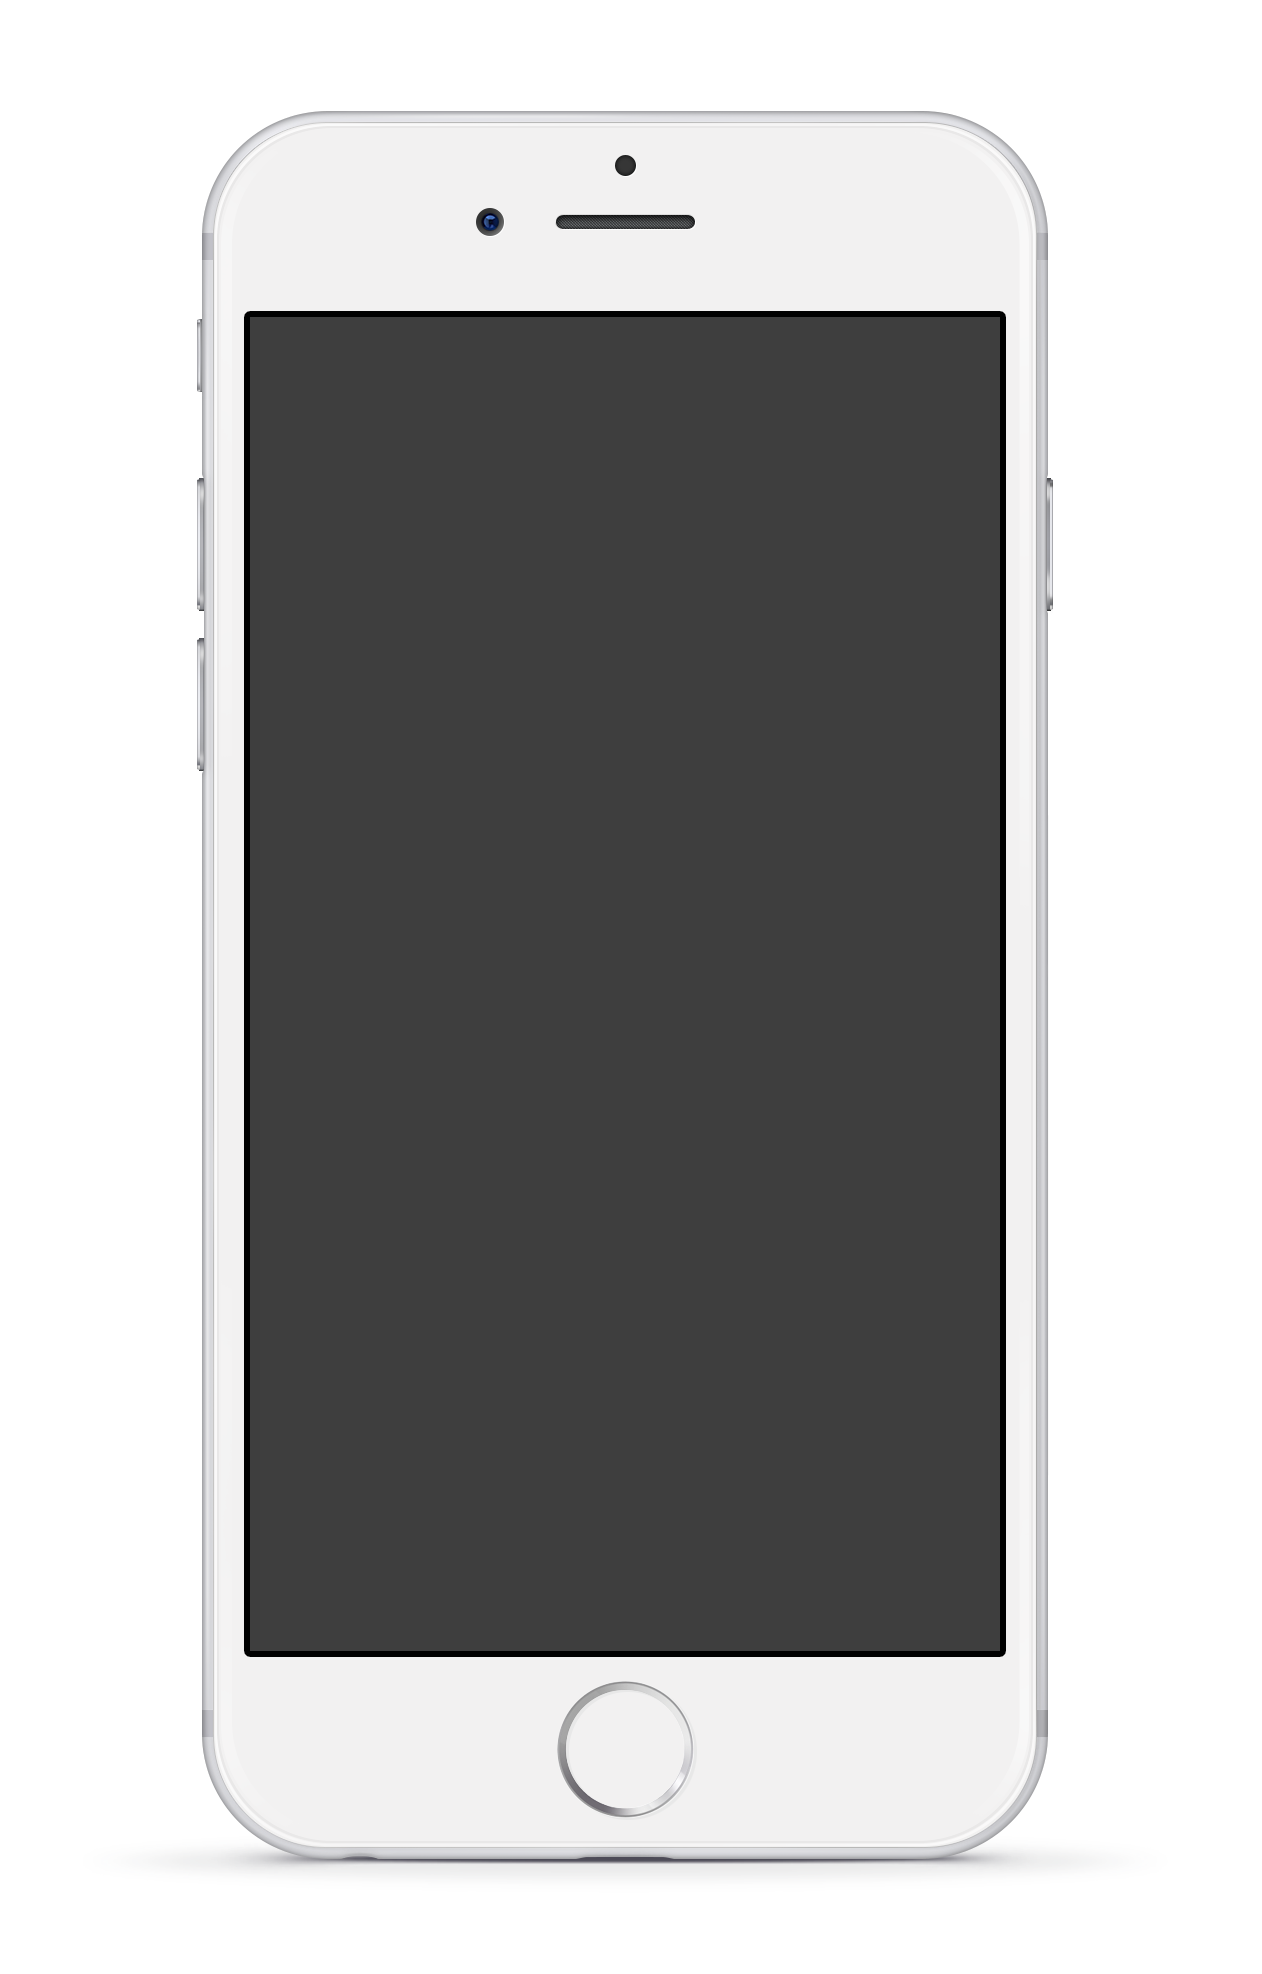
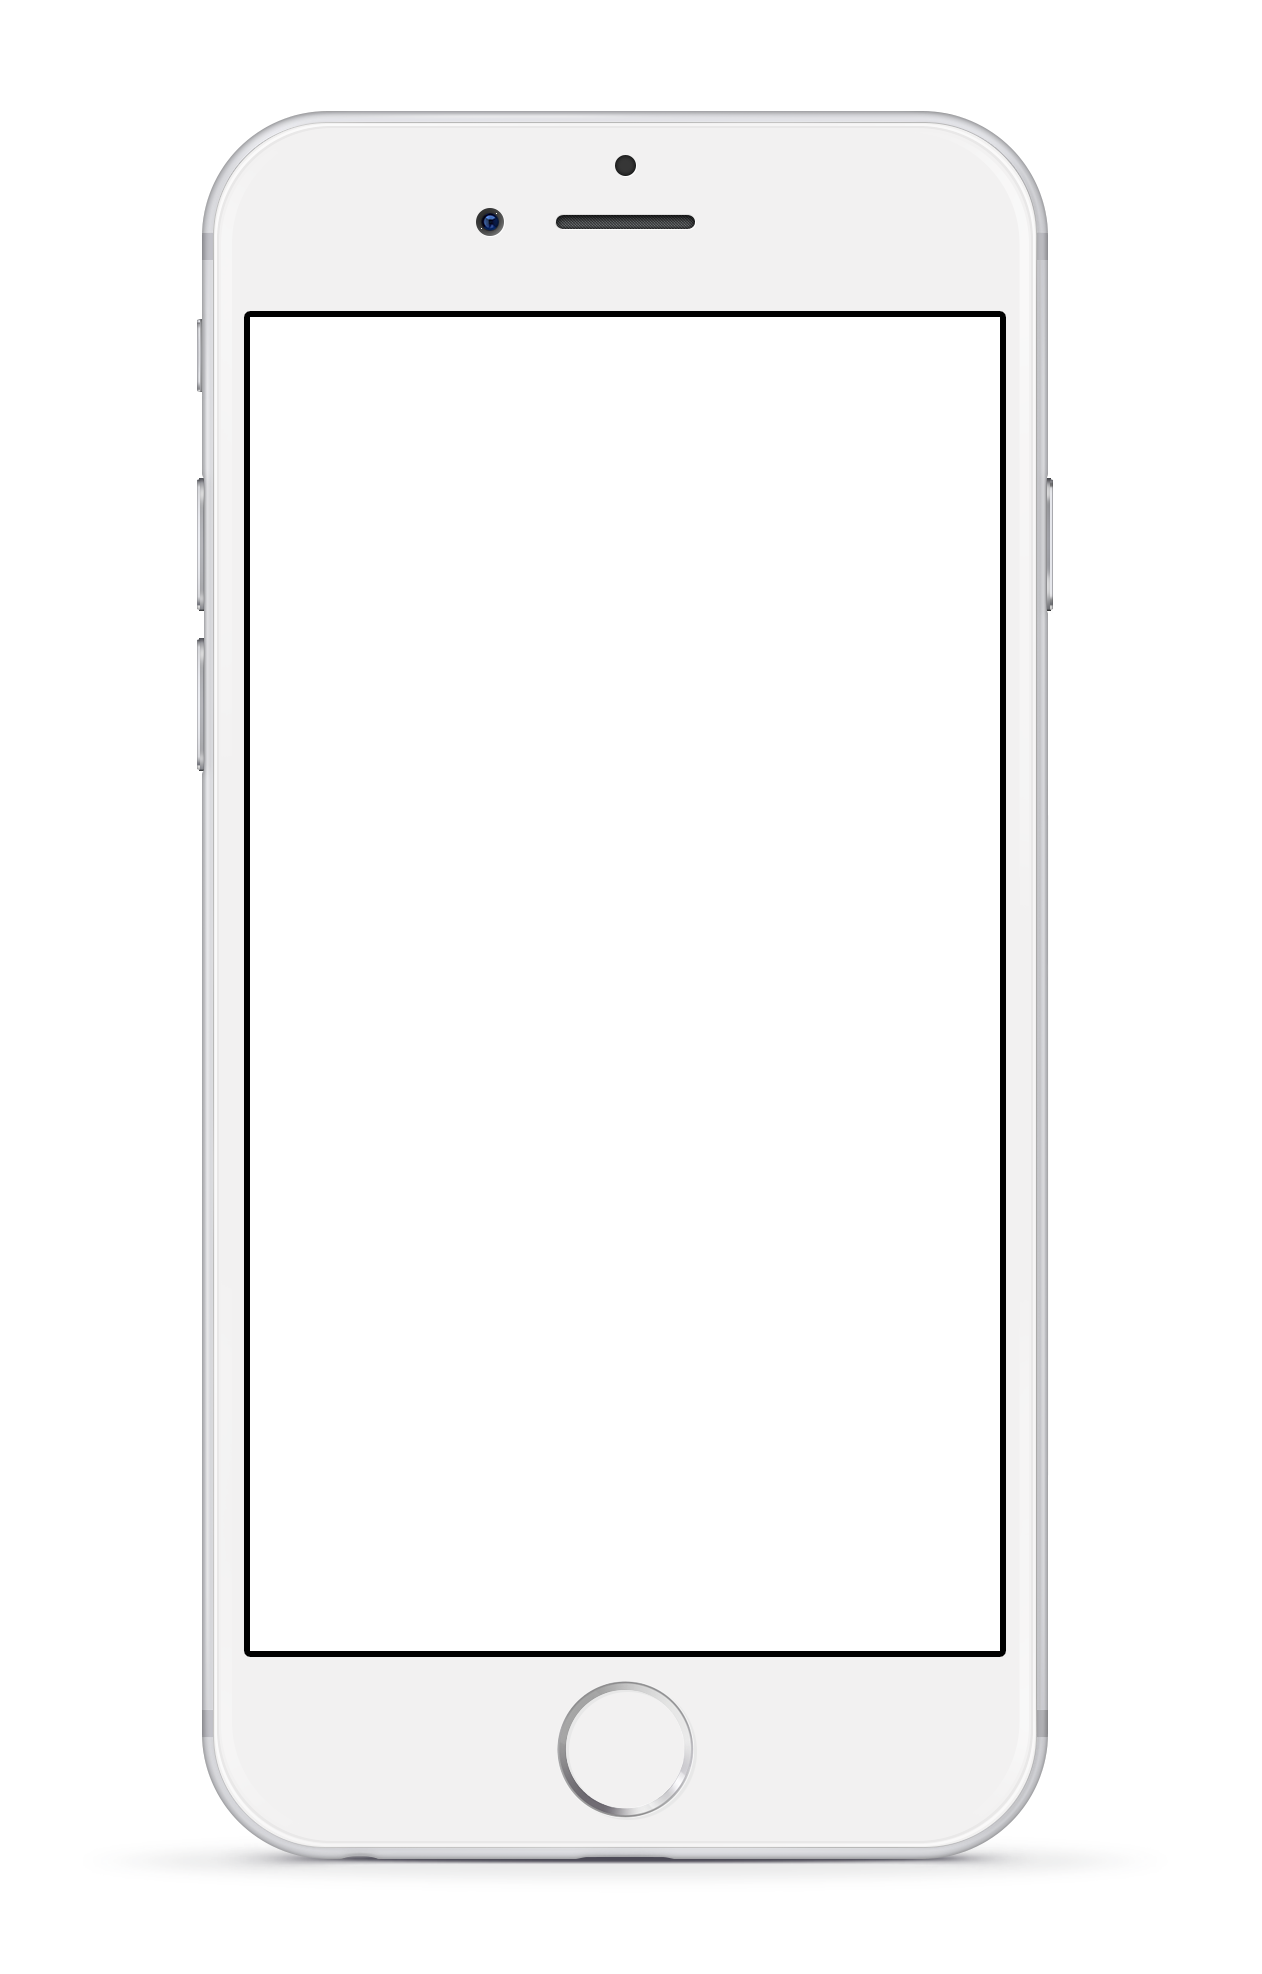
Add device frame configurations

diff --git a/src/common/DeviceFrame/DeviceFrame.tsx b/src/common/DeviceFrame/DeviceFrame.tsx
@@ -2,7 +2,12 @@ import React from 'react'
 import IphoneFrame from 'assets/images/device_frames/ios/iphone.png'
 import IphoneSEFrame from 'assets/images/device_frames/ios/iphoneSE.png'
 import IpadFrame from 'assets/images/device_frames/ios/ipad.png'
+import macbookFrame from 'assets/images/device_frames/web/macbook.png'
+import browserDarkFrame from 'assets/images/device_frames/web/browser_dark.png'
+import browserLightFrame from 'assets/images/device_frames/web/browser_light.png'
 import { Image } from 'react-bootstrap'
+
+import './DeviceFrame.css'
 
 interface Props {
   image: string
@@ -11,6 +16,7 @@ interface Props {
 
 export default function DeviceFrame({ image, type }: Props) {
   const frameImage = getFrameImage(type)
+  const className = getClassName(type)
 
   function getFrameImage(type: string): string | null {
     switch (type) {
@@ -21,9 +27,28 @@ export default function DeviceFrame({ image, type }: Props) {
       case DEVICE_TYPES.iphoneSE:
         return IphoneSEFrame
       case DEVICE_TYPES.web:
-        return null
+        return browserLightFrame
+      case DEVICE_TYPES.macbook:
+        return macbookFrame
       default:
         return null
+    }
+  }
+
+  function getClassName(type: string): string {
+    switch (type) {
+      case DEVICE_TYPES.ipad:
+        return 'device-frame-ipad'
+      case DEVICE_TYPES.iphone:
+        return 'device-frame-iphone'
+      case DEVICE_TYPES.iphoneSE:
+        return 'device-frame-iphoneSE'
+      case DEVICE_TYPES.web:
+        return 'device-frame-web'
+      case DEVICE_TYPES.macbook:
+        return 'device-frame-macbook'
+      default:
+        return 'device-frame-default'
     }
   }
 
@@ -32,14 +57,13 @@ export default function DeviceFrame({ image, type }: Props) {
   return (
     <div className="position-relative" style={{ height: '100%' }}>
       <Image
+        src={image}
+        className={`position-absolute top-50 start-50 translate-middle ${className}`}
+      />
+      <Image
         src={frameImage}
         className="position-absolute top-50 start-50 translate-middle"
         style={{ height: '100%' }}
-      />
-      <Image
-        src={image}
-        className="position-absolute top-50 start-50 translate-middle"
-        style={{ height: '67%' }}
       />
     </div>
   )
@@ -50,4 +74,5 @@ export const DEVICE_TYPES = {
   iphone: 'IPHONE',
   iphoneSE: 'IPHONE_SE',
   web: 'WEB',
+  macbook: 'MACBOOK',
 }

diff --git a/src/components/Home/components/Projects/components/ProjectPreview/ProjectPreview.tsx b/src/components/Home/components/Projects/components/ProjectPreview/ProjectPreview.tsx
@@ -5,6 +5,8 @@ import BlankIcon from 'assets/icons/blank_icon.svg'
 import ExternalLink from 'common/ExternalLink/ExternalLink'
 import DeviceFrame, { DEVICE_TYPES } from 'common/DeviceFrame/DeviceFrame'
 import iphoneSEScreen from 'assets/images/screenshots/recipe/iphoneSE.png'
+import iphoneScreen from 'assets/images/screenshots/recipe/iphone.png'
+import ipadScreen from 'assets/images/screenshots/recipe/ipad.png'
 import ISkill from 'interfaces/ISkill'
 
 interface Props {
@@ -99,7 +101,9 @@ export default function ProjectPreview({ project }: Props) {
           </div>
         </Col>
         <Col>
+          <DeviceFrame image={ipadScreen} type={DEVICE_TYPES.ipad} />
           <DeviceFrame image={iphoneSEScreen} type={DEVICE_TYPES.iphoneSE} />
+          <DeviceFrame image={iphoneScreen} type={DEVICE_TYPES.iphone} />
           {/* <Image
           src={project.image}
           fluid

diff --git a/src/common/DeviceFrame/DeviceFrame.css b/src/common/DeviceFrame/DeviceFrame.css
@@ -1,0 +1,28 @@
+.device-frame-ipad {
+  height: 72.25%;
+}
+
+.device-frame-iphone {
+  height: 91.25%;
+  top: 48.5% !important;
+  left: 50.075% !important;
+}
+
+.device-frame-iphoneSE {
+  height: 67.75%;
+  left: 49.85% !important;
+}
+
+.device-frame-macbook {
+  height: 76%;
+  top: 46.75% !important;
+}
+
+.device-frame-web {
+  height: 98.3%;
+  top: 61.75% !important;
+}
+
+.device-frame-default {
+  height: 100%;
+}
